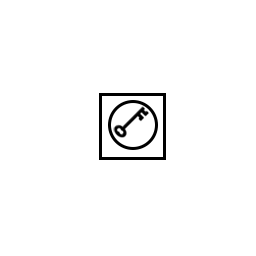
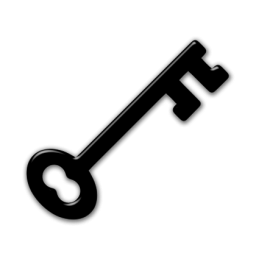
works neat...some problems related to space and have to change some designs

Changed region(s): [[0.0938, 0.125, 0.9062, 0.875]]

diff --git a/shift1.js b/shift1.js
@@ -49,8 +49,38 @@
 		2046830335 : 'lime',
 		1842345727 : 'maroon',
 		2189099263 : 'gold',
-		1614353407 : 'silver'
-	}
+		1614353407 : 'silver',
+		2509608447 : 'gray',
+		4066714367 : 'orange',
+		11464703 : 'brown',
+		4294902015 : 'yellow',
+		
+		1258310143 : 'violet',
+		1141793535 : 'purple',
+		3435973887	: 'silver',
+		1179010815 : 'gray',
+		4137056767 : 'indigo',
+		4153679359 : 'gold',
+		3959459071 : 'pink'
+	};
+
+	var obstacleColors = [
+		3923788543,
+		4103782911,
+		1842345727,
+		1695122687,
+		2046830335,
+		2189099263,
+		4066714367,
+		11464703,
+		4294902015,
+		1258310143,
+		1141793535,	
+		1179010815,
+		4137056767,
+		4153679359,
+		3959459071
+	];
 
 	window.requestAnimFrame = function(){
 	    return (
@@ -73,11 +103,15 @@
 			'level0' : './imgs/intro.png',
 			'level1' : './imgs/intro1.bmp',
 			'level2' : './imgs/level0.png',
-			'level3' : './imgs/level1.png',
-			'level4' : './imgs/level2.png',
+			'level3' : './imgs/intro4.png',
+			'level4' : './imgs/level1.png',
+			'level5' : './imgs/level2.png',
+			'level6' : './imgs/level3.png',
+			'level7' : './imgs/level4.png',
 			'door'	 : './imgs/door.png',
 			'key'	 : './imgs/key.png',
-			'block'	 : './imgs/block.png'
+			'lock'	 : './imgs/Lock.png',
+			'obstacle' : './imgs/obstacle.png'
 		};
 
 		this.total = Object.keys(this.imgs).length;
@@ -210,8 +244,10 @@
 						spawn.x = i*50 + 50/2;
 						spawn.y = j*50 + 50/2;
 						player.reset();
+						map.assign(i,j,4294967295);
 					}
 					terrain.push(new Floor(i*50,j*50,map.getAt(i,j)));
+
 					var temp_terrain = terrain[terrain.length-1];
 					if(temp_terrain.color in HashMap){
 						HashMap[temp_terrain.color].obstacles.push(temp_terrain);
@@ -403,6 +439,15 @@
 			else if(this.color == "blue"){
 				ctx.drawImage(AssetLoader.imgs['door'],this.x,this.y,this.width,this.height);	
 			}
+			else if(this.color in HashMap){
+				ctx.drawImage(AssetLoader.imgs['key'],this.x,this.y,this.width,this.height);		
+			}
+			else if(this.color == "silver" || this.color == "green"){
+				ctx.drawImage(AssetLoader.imgs['obstacle'],this.x,this.y,this.width,this.height);			
+			}
+			else if(this.color == "purple" || this.color == "indigo" || this.color == "gray" || this.color == "yellow" || this.color=="lime"){
+				ctx.drawImage(AssetLoader.imgs['lock'],this.x,this.y,this.width,this.height);				
+			}
 			else{
 				ctx.fillStyle = this.color;			
 				ctx.fillRect(this.x,this.y,this.width,this.height);
@@ -561,7 +606,7 @@
 
 				// HAVE TO MAKE THIS AN ARRAY OF POSSIBLE OBSTACLE COLORS 
 				//var obstacleColor = 3923788543;
-				var obstacleColors = [3923788543,4103782911,1842345727,1695122687,2046830335,2189099263];
+				
 				var collideColor = (player.color == "black") ? 0xff : 0xffffffff;
 
 

diff --git a/index.html b/index.html
@@ -2,7 +2,7 @@
 	<title> Shift </title>
 	<link rel='stylesheet' href='shift.css' />
     <div id="sekhar" class="box">
-	<canvas id="mycanvas" width="500px" height="500px"> Your browser doesnot support Canvas</canvas>
+	<canvas id="mycanvas" width="550px" height="550px"> Your browser doesnot support Canvas</canvas>
 	</div>
 	<body>
 

diff --git a/shift.css b/shift.css
@@ -1,6 +1,6 @@
 .box {
-	width: 500px;
-	height: 500px;
+	width: 550px;
+	height: 550px;
 	margin: 0px auto;
 	border: thick outset aqua;
 	transition: -webkit-transform 0.5s linear;
